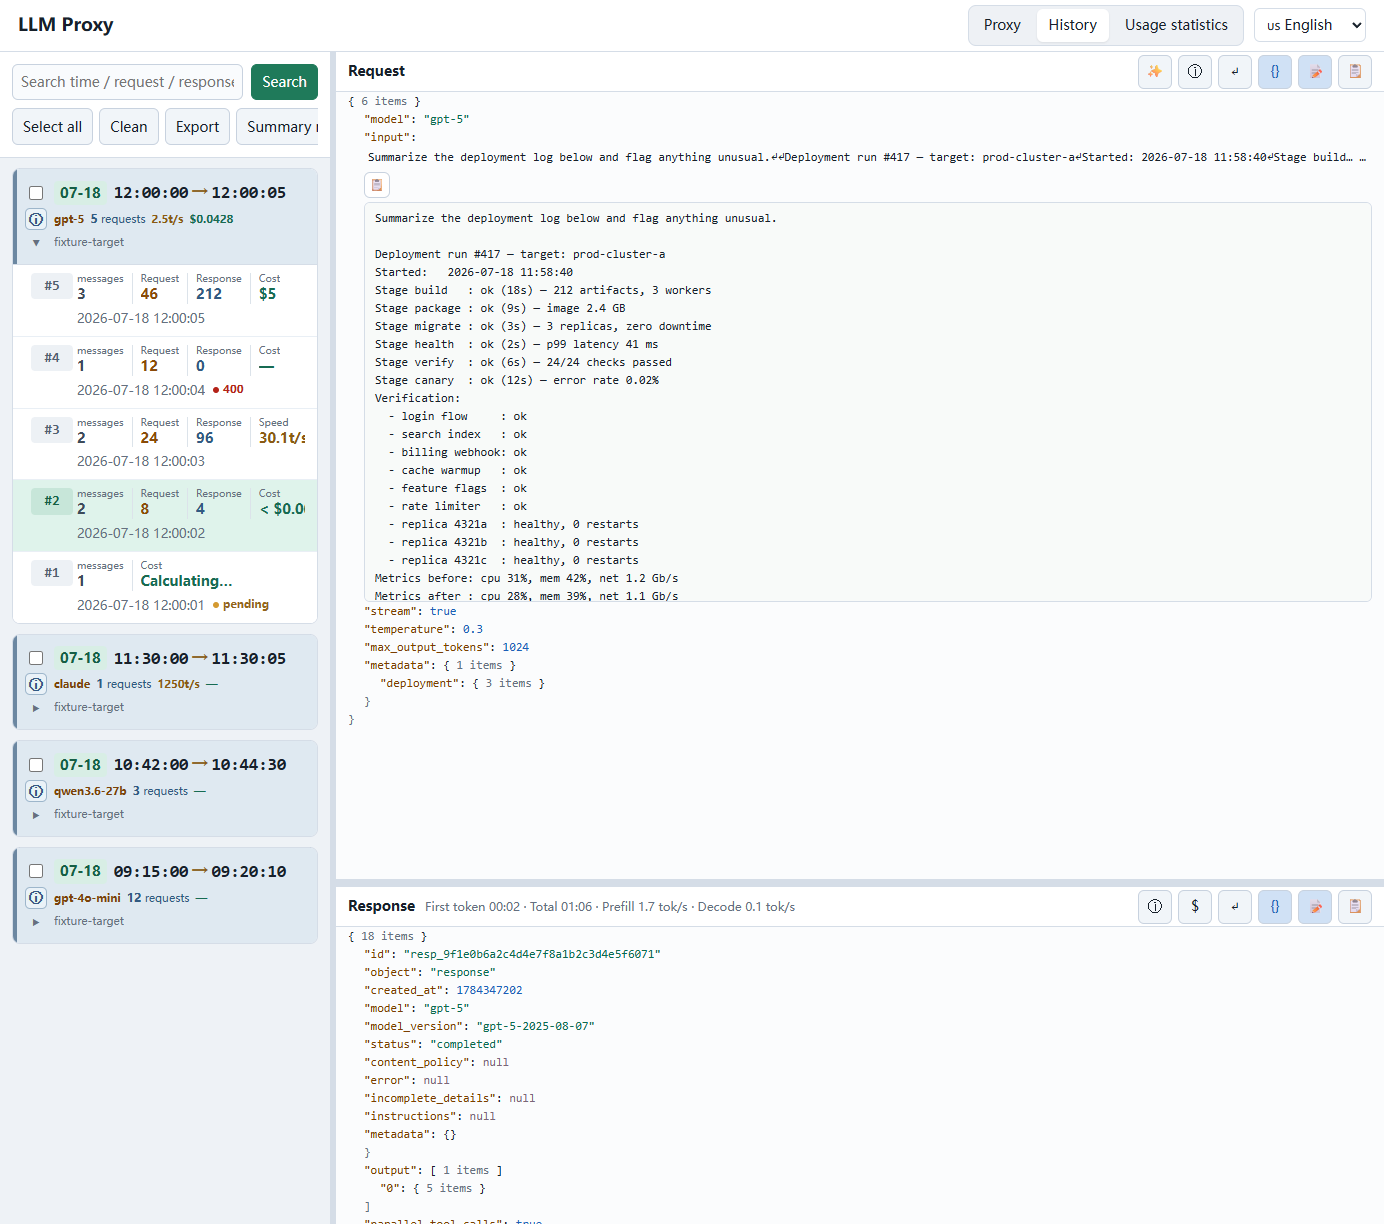
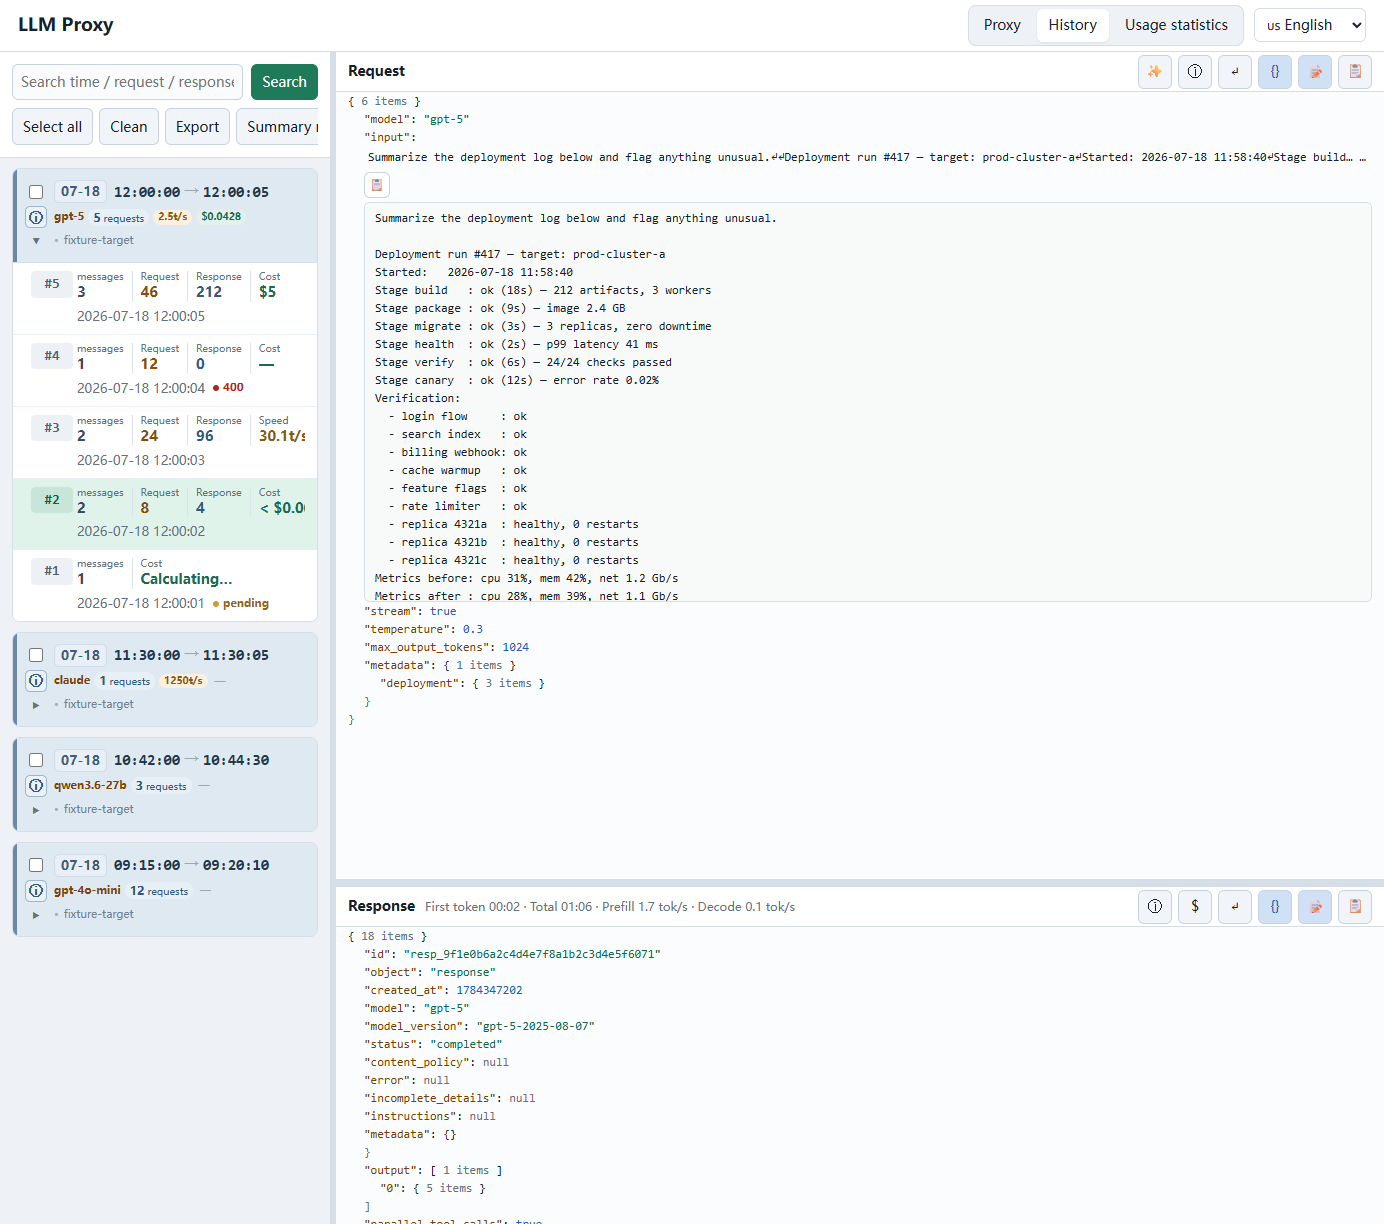
feat(ui): enhance task grouping display and improve layout consistency

diff --git a/src/admin/static/app.css b/src/admin/static/app.css
@@ -1109,31 +1109,38 @@ label span {
   gap: 7px;
   font-variant-numeric: tabular-nums;
 }
+/* The date is context, not a metric: keep it in the header's blue-gray family
+   so the green stays reserved for cost. */
 .log-group-date {
   flex: 0 0 auto;
-  padding: 2px 6px;
-  border-radius: 4px;
-  background: #d8eee5;
-  color: #155f45;
-  font-size: 14px;
+  padding: 1px 6px;
+  border: 1px solid #cfdce8;
+  border-radius: 5px;
+  background: #e8eff6;
+  color: #3f5b78;
+  font-size: 13px;
   font-weight: 700;
+  letter-spacing: 0.02em;
 }
 .log-time-range {
   min-width: 0;
   display: flex;
   align-items: baseline;
-  gap: 3px;
+  gap: 4px;
+  color: #22384c;
   font-family: ui-monospace, SFMono-Regular, Consolas, monospace;
-  font-size: 17px;
-  font-weight: 700;
+  font-size: 15px;
+  font-weight: 600;
   white-space: nowrap;
 }
 .log-time-arrow {
-  color: #8a5a13;
+  color: #9aa9b8;
   font-family: system-ui, sans-serif;
-  font-weight: 700;
+  font-weight: 600;
 }
 .log-group-time-fallback {
+  color: #22384c;
+  font-size: 15px;
   font-weight: 700;
   overflow: hidden;
   text-overflow: ellipsis;
@@ -1152,13 +1159,14 @@ label span {
 .log-group-fact-line {
   min-width: 0;
   display: flex;
-  gap: 6px;
-  align-items: baseline;
+  gap: 4px;
+  align-items: center;
   overflow: hidden;
   white-space: nowrap;
 }
 /* Keep every item at natural width so the row overflows to the right and the
-   container hides it right-to-left (speed first, then cost/count/model). */
+   container hides it right-to-left (speed first, then cost/count/model). The
+   model name is the exception (below): it is the row's flexible cell. */
 .log-group-fact-line > * {
   flex: 0 0 auto;
 }
@@ -1166,12 +1174,34 @@ label span {
   grid-row: 2;
   display: block;
 }
+/* The model name is the only flexible cell in the row: when everything does
+   not fit, it ellipsises first so the metric chips (especially the cost) stay
+   fully readable instead of being clipped at the container edge. */
+.log-group-fact-line > .log-model {
+  flex: 0 1 auto;
+  min-width: 0;
+  overflow: hidden;
+  text-overflow: ellipsis;
+}
+/* Secondary metrics are tinted value chips so the row reads as one scannable
+   data line instead of colored text floating on the header background. The
+   10 px/compact padding keeps a realistic row (long model name, 3-digit count
+   and speed, 4-digit cost) inside the default 330 px sidebar. */
+.log-request-count,
+.log-group-decode-speed,
 .log-group-cost {
+  padding: 0 5px;
+  border-radius: 999px;
+  font-size: 10px;
+}
+.log-group-cost {
+  background: #e2f1ea;
   color: #176b52;
   white-space: nowrap;
   font-weight: 700;
 }
 .log-group-decode-speed {
+  background: #fbf0dd;
   color: #8a5a13;
   font-weight: 700;
   font-variant-numeric: tabular-nums;
@@ -1181,21 +1211,34 @@ label span {
   font-weight: 700;
 }
 .log-request-count {
+  background: #e7eff7;
   color: #315a82;
 }
 .log-request-count strong {
   font-variant-numeric: tabular-nums;
   font-size: 12px;
 }
+/* A missing cost keeps its cell but renders as quiet text, not an empty chip
+   (paired selector so it reliably overrides .log-group-cost). */
+.log-group-cost.log-fact-empty {
+  padding: 0 3px;
+  background: none;
+  color: #9aa8b5;
+  font-weight: 600;
+}
 .log-target {
   min-width: 0;
   overflow: hidden;
   text-overflow: ellipsis;
+  color: #71828f;
+  font-size: 11px;
 }
+/* Leading marker keeps the target line visually attached to the facts above
+   instead of floating as a stray line of gray text. */
 .log-target::before {
-  content: none;
-  margin-right: 6px;
-  color: #9ba6b2;
+  content: "•";
+  margin-right: 5px;
+  color: #a4b2c0;
 }
 .log-group-body {
   border-top: 1px solid var(--line);

diff --git a/src/admin/static/app.js b/src/admin/static/app.js
@@ -535,8 +535,13 @@ function formatGroupDecodeSpeed(value) {
 function logGroupFactsHtml(group) {
   const decodeSpeed = formatGroupDecodeSpeed(group.decode_speed_tps);
   const decodeSpeedTip = `${t("avgDecodeSpeed")}: ${t("avgDecodeSpeedTip")}`;
+  const cost = formatGroupCost(group.cost);
+  const costHtml =
+    cost === "—"
+      ? `<span class="log-group-cost log-fact-empty">—</span>`
+      : `<span class="log-group-cost">${escapeHtml(cost)}</span>`;
   return `<span class="log-group-facts">
-    <span class="log-group-fact-line">${group.model ? `<span class="log-model">${escapeHtml(group.model)}</span>` : ""}<span class="log-request-count"><strong>${escapeHtml(group.request_count ?? 0)}</strong> ${escapeHtml(t("requests"))}</span>${decodeSpeed ? `<span class="log-group-decode-speed" title="${escapeHtml(decodeSpeedTip)}">${escapeHtml(decodeSpeed)}t/s</span>` : ""}<span class="log-group-cost">${escapeHtml(formatGroupCost(group.cost))}</span></span>
+    <span class="log-group-fact-line">${group.model ? `<span class="log-model" title="${escapeHtml(group.model)}">${escapeHtml(group.model)}</span>` : ""}<span class="log-request-count"><strong>${escapeHtml(group.request_count ?? 0)}</strong> ${escapeHtml(t("requests"))}</span>${decodeSpeed ? `<span class="log-group-decode-speed" title="${escapeHtml(decodeSpeedTip)}">${escapeHtml(decodeSpeed)}t/s</span>` : ""}${costHtml}</span>
     <span class="log-group-fact-line log-target" title="${escapeHtml(group.target || "")}">${escapeHtml(group.target || "—")}</span>
   </span>`;
 }

diff --git a/AGENTS.md b/AGENTS.md
@@ -4,7 +4,8 @@
 - UI changes: run `npm run regen:ui-baselines` before committing; update README images (`doc/ui_*.png`) and hashes in `docs/refactoring/ui-visual-baseline.md`. Inspect regenerated images in full before cropping. UI text changes also require `npx prettier --check .` and checking English baselines (`doc/ui_proxy_en.png`, `doc/ui_logs_en.png`) for stray Chinese. The usage-statistics API contract is unit-sensitive: `overview` totals and byTarget/byModel `cost` are yuan strings, while trend `points[].cost` is a nano-CNY integer the UI divides by 1e9; new baseline rows in the doc need a real SHA-256 hash (the regen script's regex rejects `PENDING` placeholders).
 - `src/admin/static/app.css` is a cumulative stack of layout passes; later blocks in the file are not authoritative (e.g. the token card's 2x2 details grid is governed by a higher-specificity unmedia-queried `.stats-overview .stat-card-tokens .token-details` rule). When a layout change appears to have no effect, audit specificity via computed styles, not file order.
 - The Electron Chromium (v40) does not support the `:sticky` pseudo-class — neither in stylesheets nor in `querySelector` — so "style only while a sticky element is pinned" cannot be done in CSS; gate such effects in JS or make the style safe in both states.
-- The group summary row (`.log-group-fact-line`) clips right-to-left when too wide: all children use `flex: 0 0 auto` and only the row keeps `overflow: hidden`. Don't give individual fact items (e.g. `.log-group-cost`) `min-width: 0`/`text-overflow: ellipsis` back — a single shrinkable flex child becomes the only one that gets truncated.
+- The group summary row (`.log-group-fact-line`) clips right-to-left when too wide: children use `flex: 0 0 auto` and only the row keeps `overflow: hidden`. The model name is the one deliberate exception (`.log-group-fact-line > .log-model` gets `flex: 0 1 auto` + `min-width: 0` + ellipsis + `title`), so an over-long model truncates first and the metric chips (count/speed/cost) stay readable. Do not make another item (e.g. `.log-group-cost`) shrinkable — one accidental extra shrinkable child steals width from the metrics and silently truncates the wrong value. Chip sizing is width-budgeted for the default 330 px sidebar (10 px text, `padding: 0 5px`, `gap: 4px`): a realistic row (long model, 3-digit count and speed, 4-digit cost) fits exactly, so re-measure before enlarging the chips.
+- Checking admin-UI layout without patching the UI test file: a throwaway Node script that imports `createAdminServer` + `loadAdminStaticAssets` from `dist-node` with a stub `logService`, opens the page with the Playwright-bundled Chromium and screenshots `.log-list` at several `--sidebar-w` values is much faster. `loadAdminStaticAssets` serves the built `dist-node/**/static` copies, so run `npm run build` after editing `src/admin/static` (otherwise the harness silently renders stale CSS); compare `line.scrollWidth` with the container width to detect clipping numerically.
 - The task header (`.log-group-head`) is a 3-row grid whose control column (`.log-group-controls`: checkbox, task-detail icon, caret) and `.log-group-summary` share those rows via `grid-template-rows: subgrid`, so each control can be vertically centered against its text row (time / model+cost / target) with `align-items: center`. Keep header controls in that shared-row structure when moving or aligning them — separate stacked grids with manual gaps cannot reliably align across columns.
 - Run Vitest and UI baseline commands from an uppercase drive path (`cd /D/...`); lowercase `d:` can duplicate the runtime. After `npm run rebuild:electron`, run `npm rebuild better-sqlite3` before Node tests.
 - The usage-statistics page is rendered on demand by `loadStatistics`/`loadStatisticsOptions` with inline `state.language === "en" ? … : …` strings (not `data-i18n`); any language switch must therefore re-run that render, which `setLanguage` does only when the page was already loaded. New language-dependent UI must be reachable from an existing re-render path.

diff --git a/docs/refactoring/ui-visual-baseline.md b/docs/refactoring/ui-visual-baseline.md
@@ -12,8 +12,8 @@
 | --- | --- | --- | --- | --- |
[8 lines of base64/hex data omitted]
 
@@ -49,9 +49,10 @@ sha256sum doc/ui_proxy_cn.png doc/ui_proxy_en.png doc/ui_logs_cn.png doc/ui_logs
 - fixture 包含多个 task：首个 task 展开，其余以单行折叠卡片显示（不同 model 和 request 数）。
 - 每个 task 是浅灰列表区内一张独立的白色圆角卡片，卡片之间用留白分隔。
 - task header 是卡片顶部的蓝灰色块，带加粗左侧色条；左侧控制列中复选框、ⓘ 任务明细图标按钮与折叠箭头自上而下排列，右侧为时间范围和 model/request/target 摘要。header 与请求项列表之间有一条分隔线。
+- task header 摘要分三行：第一行为日期徽标（蓝灰圆角标签，不参与指标配色）与等宽字体时间范围，中间箭头为中性灰；第二行为 model 名（琥珀色文本）以及请求数、decode 速度、费用三个浅色底值标签（chip）；模型名过长时优先省略（悬停显示完整名称），保证三个指标标签完整可见；第三行为转发地址，带前置圆点标记并单行省略。
 - 展开的 task 下按 sequence 倒序显示 5 条请求项，白底、相对 header 缩进，仅用浅色细线分隔，视觉层级从属于 task header。
 - 请求项状态圆点覆盖两种非成功状态：红色 4xx 错误（保留状态码文字）、琥珀色 pending（保留"等待中"文字）；200 成功不再显示任何状态标记。
-- 指标颜色两级统一：费用为青绿色（#176b52），数量类指标（一级请求数、二级响应 tokens）为蓝色（#315a82），模型名与请求 tokens 为琥珀色（#7a4308 / #8a4b08），消息数为中性深灰。
+- 指标颜色两级统一：费用为青绿色（#176b52），数量类指标（一级请求数、二级响应 tokens）为蓝色（#315a82），模型名与请求 tokens 为琥珀色（#7a4308 / #8a4b08），消息数为中性深灰；日期徽标、时间范围与转发地址使用中性蓝灰。
 - 速度指标两级同格式：一级显示任务平均 decode 速度，二级在“响应”与“费用”之间显示单条请求的 decode 速度，数值均为琥珀色（#8a5a13）且格式为“x.xt/s”（≥100 取整），无可用 decode 窗口时不显示。
 - 右侧 JSON 使用等宽字体、语法颜色和 `details/summary` 折叠树。
 - Request/Response 标题栏右侧包含 meta、wrap、expand、format、copy 按钮。

diff --git a/README.md b/README.md
@@ -48,7 +48,7 @@ qwen-local => qwen3
 | 功能 | 说明 |
 | --- | --- |
 | 自动记录 | 保存请求和响应 headers、body、状态码、耗时、目标地址、路由信息及流式响应摘要。 |
-| 任务分组 | 将 Agent 的连续多轮请求归入任务，便于按一次工作流查看。 |
+| 任务分组 | 将 Agent 的连续多轮请求归入任务，便于按一次工作流查看。任务卡片头部按“时间范围 / 模型与指标 / 转发地址”三行排列：日期徽标与转发地址为中性蓝灰，请求数、解码速度、费用以浅色底标签区分。 |
 | 全文搜索 | 按路径、方法、状态、目标 URL、任务 ID 或记录 ID 搜索；空格分隔的关键词同时生效。 |
 | 请求详情 | 并排查看请求和响应 JSON，支持展开、折叠、换行、格式化和复制。 |
 | 成本统计 | 按任务显示总费用、已计价/未计价请求、价格规则和 token 明细；每条请求显示其费用占比。缺少可靠用量或价格时标记为未计价，不会当作免费。点击任务头部控制列的 ⓘ 图标按钮打开“任务明细”面板查看费用，面板顶部显示任务总耗时（第一个请求到最后一个请求结束的墙钟时间）与请求总耗时（各请求耗时之和，不含请求间隔），面板内另附“Token 趋势”折线图，按请求序号展示每个请求的 token 总量（请求 + 响应）。 |

diff --git a/README.en.md b/README.en.md
@@ -48,7 +48,7 @@ qwen-local => qwen3
 | Feature | What it does |
 | --- | --- |
 | Automatic capture | Stores request and response headers and bodies, status, duration, target, routing details, and streaming summaries. |
-| Task grouping | Groups consecutive Agent requests into tasks for reviewing one workflow. |
+| Task grouping | Groups consecutive Agent requests into tasks for reviewing one workflow. Each task header stacks time range, model and metrics, and target URL: the date badge and target stay neutral, while request count, decode speed, and cost use tinted value chips. |
 | Full-text search | Search by path, method, status, target URL, task ID, or record ID; space-separated terms all apply. |
 | Request details | View request and response JSON side by side with expand, collapse, wrapping, formatting, and copy controls. |
 | Cost tracking | Shows task totals, priced/unpriced requests, pricing rules, and token details; each request shows its share. Missing reliable usage or pricing is marked unpriced, never free. Click the ⓘ icon button in a task header's control column to open the Task details panel with costs. |
